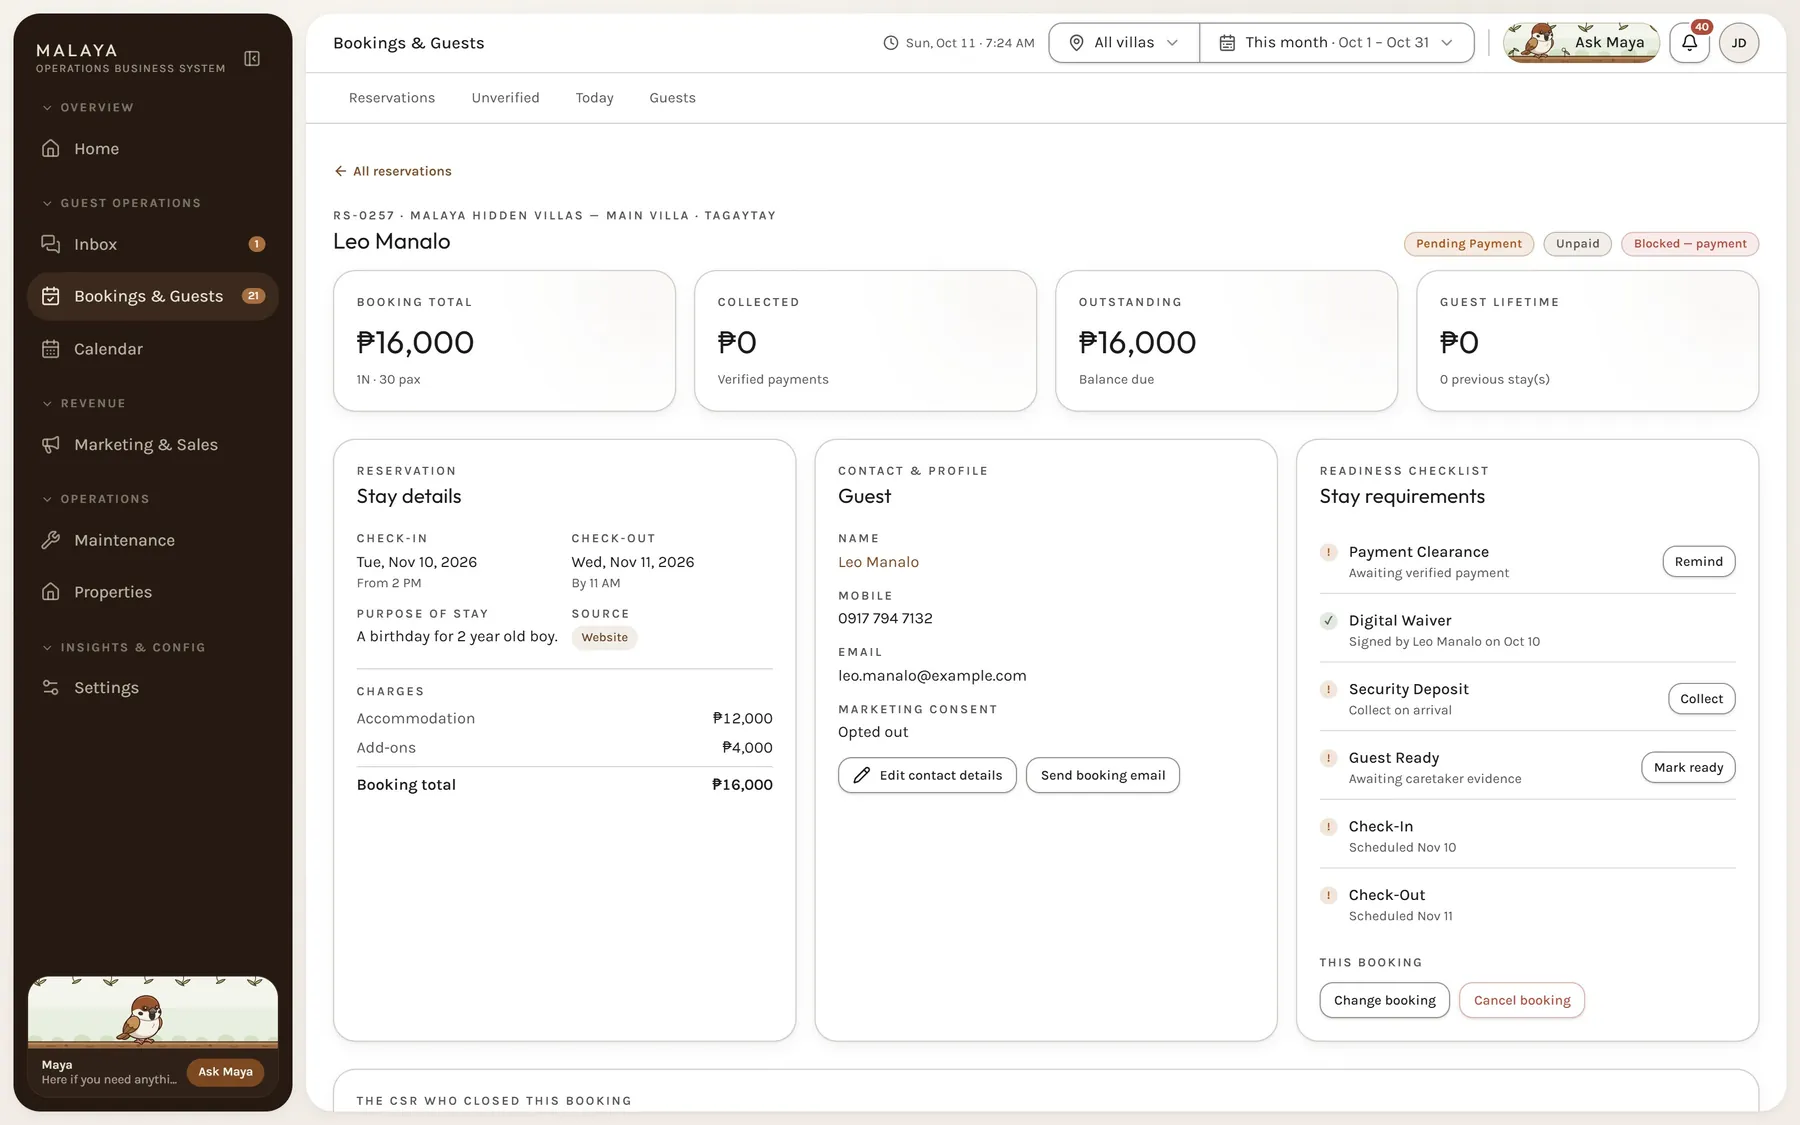
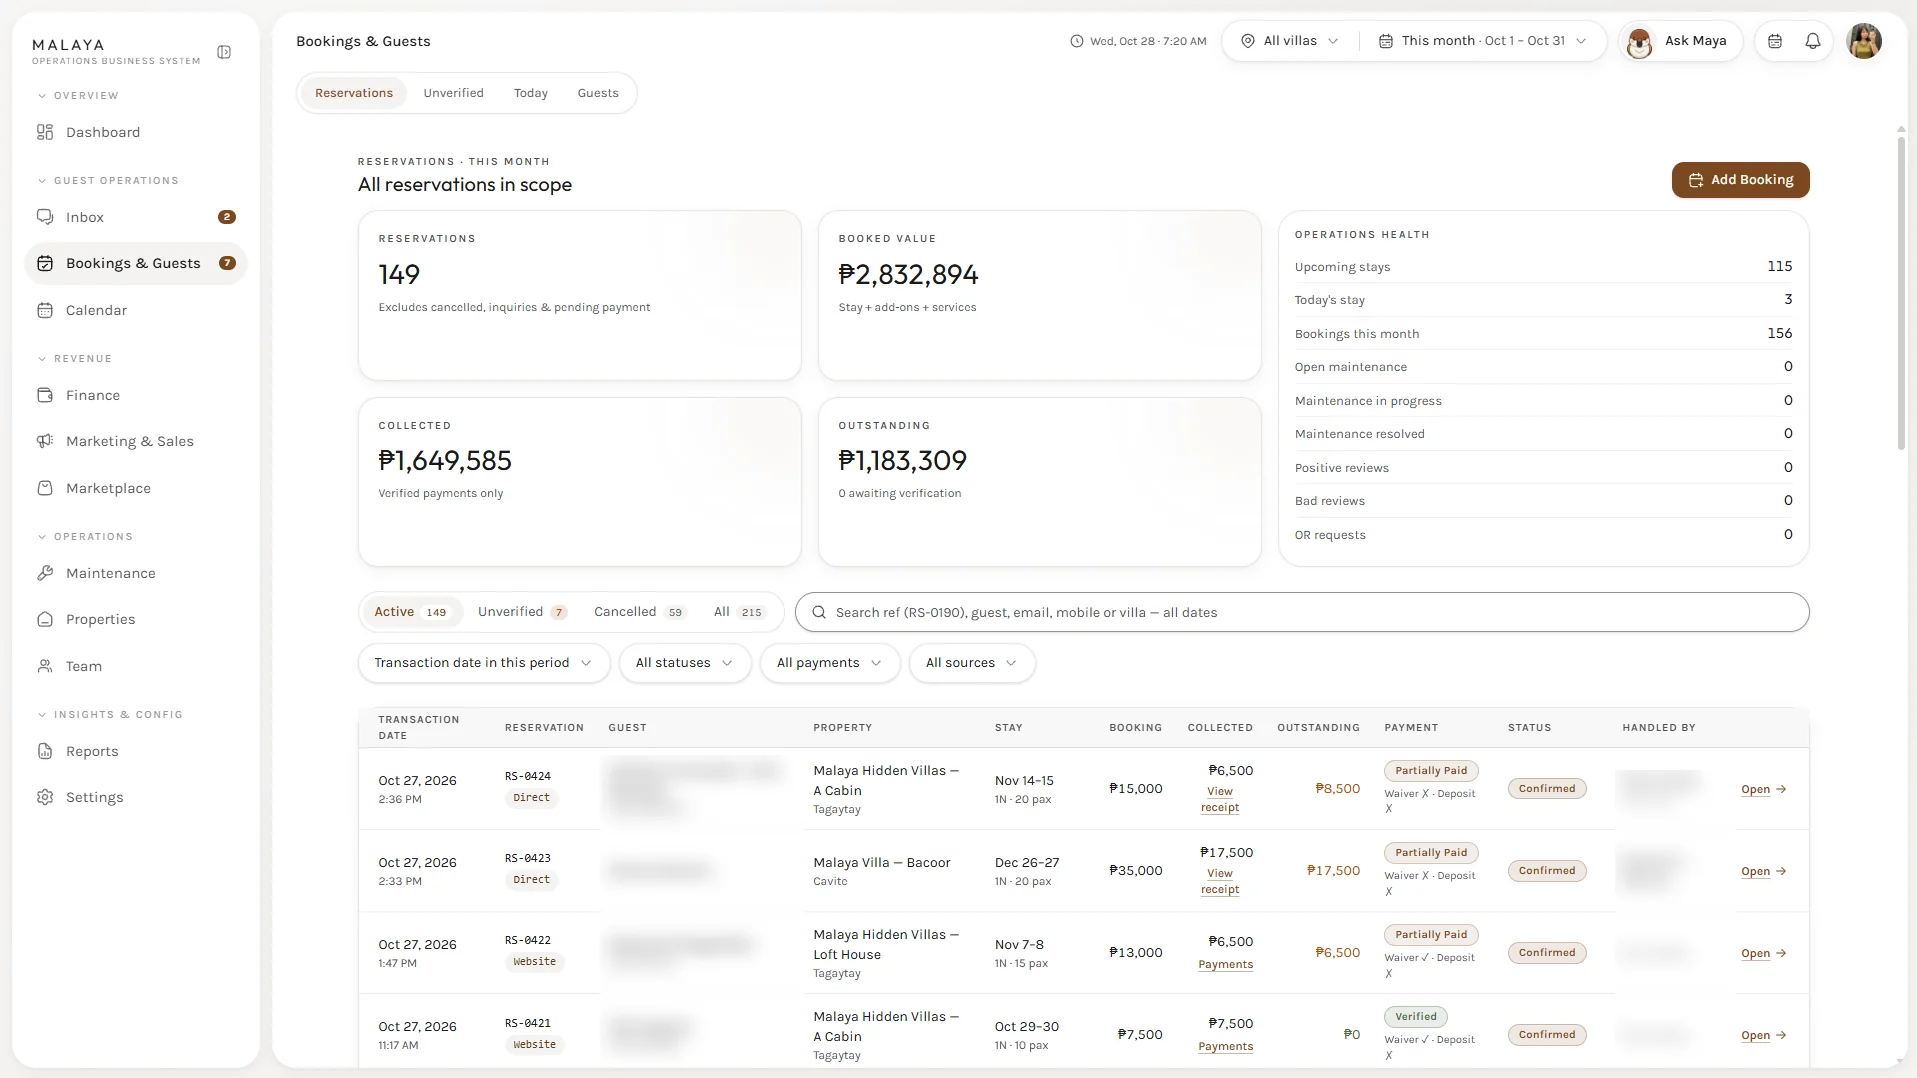
fix: the System page shows today's Malaya, with guests' details blurred
The tour's screenshots were weeks-old captures from the video project
(admin on Oct 11, the website on Oct 2). Now:

- Website tab and the hero's iPhone: fresh shots of the live
  malayavillas.com, laptop and phone.
- Inbox, Calendar and Bookings & Guests: Clarence's screenshots of the live
  admin (2026-10-28). Guests' names, email, mobiles, message previews and
  the staff names in "Handled by" are blurred before publishing (Data
  Privacy Act); dates, villas and amounts stay.
- The old Home and Today captures are removed, from the files and from the
  website editor's photo picker.

diff --git a/src/components/site/offers/system.tsx b/src/components/site/offers/system.tsx
@@ -1,7 +1,8 @@
 /**
  * A system for your resort — software, so it reads like a product page and
- * shows the real thing: screenshots of Malaya's own admin (from the Malaya
- * project's demo account, sample guests only — no real names or revenue).
+ * shows the real thing: Malaya's live admin (screenshots from Clarence,
+ * 2026-10-28, guests' names, emails, mobiles and messages blurred — Data
+ * Privacy Act) and the live malayavillas.com.
  *
  *   Hero      Malaya-brown ground, the headline centred, the admin in a
  *             browser frame and the guest site on a phone beside it
@@ -29,12 +30,10 @@ const BROWN = "#3a2416";
 
 /** One screenshot per feature card, in the order of the default cards. */
 const SHOTS = [
-  { src: "/system/site-desk.webp", url: "yourresort.com" },
+  { src: "/system/site-desk.webp", url: "malayavillas.com" },
   { src: "/system/inbox.webp", url: "admin · Inbox" },
   { src: "/system/calendar.webp", url: "admin · Calendar" },
-  { src: "/system/booking.webp", url: "admin · Booking" },
-  { src: "/system/home.webp", url: "admin · Home" },
-  { src: "/system/today.webp", url: "admin · Today" },
+  { src: "/system/booking.webp", url: "admin · Bookings & Guests" },
 ];
 
 const PAY = [

diff --git a/src/lib/site-content.ts b/src/lib/site-content.ts
@@ -181,7 +181,6 @@ export const SITE_PHOTOS: { src: string; label: string }[] = [
   { src: "/system/inbox.webp", label: "System — Inbox" },
   { src: "/system/calendar.webp", label: "System — Calendar" },
   { src: "/system/booking.webp", label: "System — Booking" },
-  { src: "/system/home.webp", label: "System — Home" },
   { src: "/system/site-desk.webp", label: "Malaya website" },
   ...[1, 2, 3, 4].map((n) => ({ src: `/builds/lian/${n}.webp`, label: `Lian build ${n}` })),
   ...VILLAS.map((v) => ({ src: villaPhoto(v.code, v.cover), label: v.title })),
